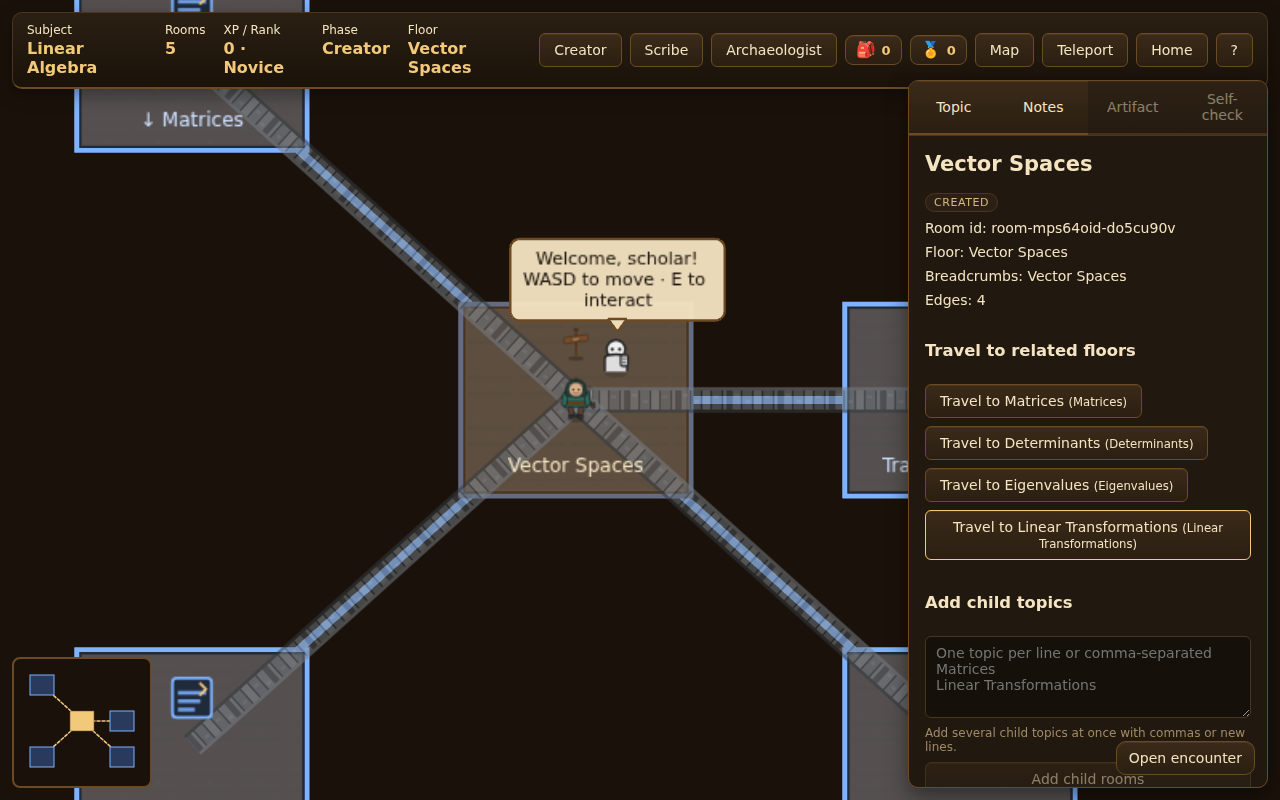
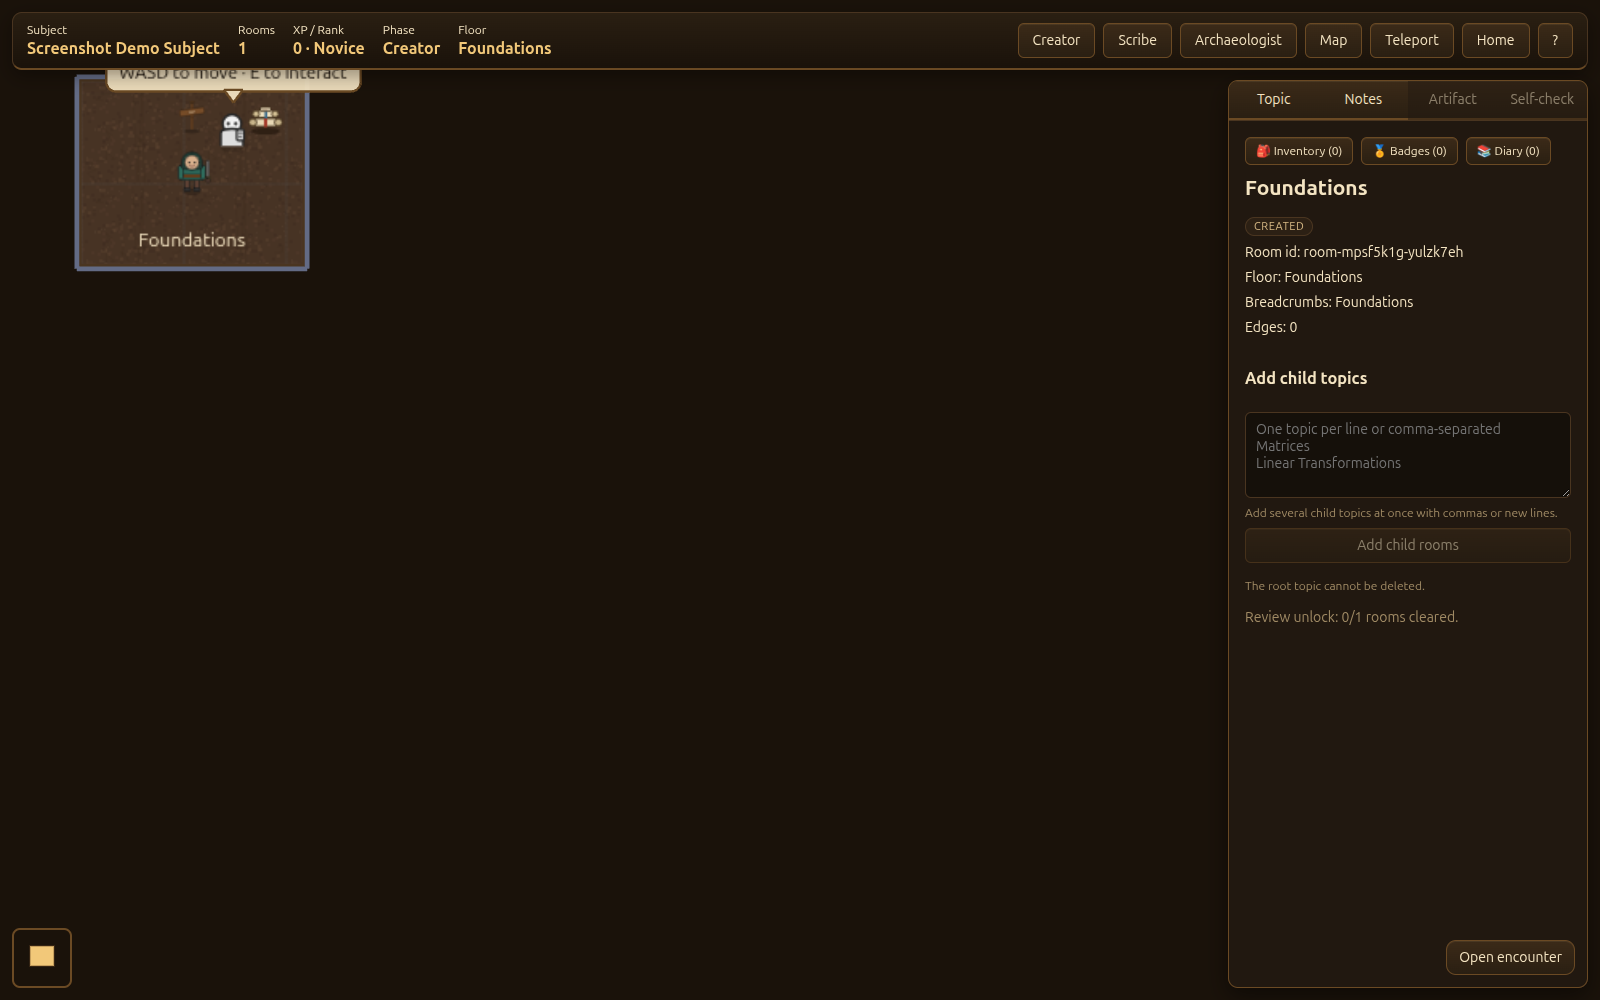
docs: refresh UI screenshots and finalize welcome/journal docs

Changed region(s): [[0.0, 0.0, 1.0, 1.0], [0.7188, 0.75, 0.8438, 0.7812], [0.9688, 0.4688, 1.0, 0.5]]

diff --git a/src/store/progressionStore.ts b/src/store/progressionStore.ts
@@ -52,10 +52,14 @@ function loadPersisted(): PersistedProgression {
     if (typeof localStorage === 'undefined') return DEFAULT_PROGRESSION;
     const raw = localStorage.getItem(STORAGE_KEYS.progression);
     if (!raw) return DEFAULT_PROGRESSION;
-    const parsed = JSON.parse(raw) as PersistedProgression;
-    const collectedNotes = Array.isArray(parsed.collectedNotes)
-      ? parsed.collectedNotes
-          .filter((entry): entry is Partial<CollectedNoteEntry> => Boolean(entry))
+    const parsed = JSON.parse(raw) as unknown;
+    if (typeof parsed !== 'object' || parsed === null) {
+      return DEFAULT_PROGRESSION;
+    }
+    const parsedRecord = parsed as Record<string, unknown>;
+    const collectedNotes = Array.isArray(parsedRecord.collectedNotes)
+      ? parsedRecord.collectedNotes
+          .filter((entry): entry is Record<string, unknown> => typeof entry === 'object' && entry !== null)
           .map((entry) => ({
             noteId: typeof entry.noteId === 'string' ? entry.noteId : '',
             dungeonId: typeof entry.dungeonId === 'string' ? entry.dungeonId : '',
@@ -74,13 +78,17 @@ function loadPersisted(): PersistedProgression {
           .filter((entry) => entry.noteId.length > 0)
       : [];
 
+    const xpTotal = typeof parsedRecord.xpTotal === 'number' ? parsedRecord.xpTotal : 0;
+
     return {
-      xpTotal: typeof parsed.xpTotal === 'number' ? parsed.xpTotal : 0,
-      rank: assignRankTier(parsed.xpTotal ?? 0),
-      badges: Array.isArray(parsed.badges) ? parsed.badges : [],
-      inventory: Array.isArray(parsed.inventory) ? parsed.inventory : [],
+      xpTotal,
+      rank: assignRankTier(xpTotal),
+      badges: Array.isArray(parsedRecord.badges)
+        ? parsedRecord.badges.filter((badge): badge is string => typeof badge === 'string')
+        : [],
+      inventory: Array.isArray(parsedRecord.inventory) ? (parsedRecord.inventory as LootItem[]) : [],
       collectedNotes,
-      streakCount: typeof parsed.streakCount === 'number' ? parsed.streakCount : 0,
+      streakCount: typeof parsedRecord.streakCount === 'number' ? parsedRecord.streakCount : 0,
     };
   } catch {
     return DEFAULT_PROGRESSION;

diff --git a/docs/UI.md b/docs/UI.md
@@ -17,6 +17,13 @@ Use this screen to:
 
 This is the entry point for every session and determines how the rest of the UI behaves.
 
+### 1a) Selection readiness state
+
+![Welcome screen with readiness summary](./assets/ui/welcome-selections-ready.png)
+
+The **Current selections** card echoes the active phase and archetype, and
+shows a readiness line that turns green once an archetype is selected.
+
 ## 2) Main game shell (HUD + minimap + room panel)
 
 ![Main game shell](./assets/ui/game-screen.png)
@@ -43,10 +50,10 @@ gets the maximum amount of screen space:
 - **Minimap (bottom-left, floating):** quick room-location awareness. The
   current room and any rooms **directly connected** to it are highlighted
   in the accent color (see [§5 Minimap child highlighting](#5-minimap-child-highlighting)).
-- **Right room panel (floating):** topic metadata, breadcrumbs, and travel
-  plus a quick-access **Collections** row for **Inventory**, **Badges**, and
-  **Diary** so progression actions stay reachable without crowding the HUD.
-  The room panel also includes topic metadata, breadcrumbs, and travel
+- **Right room panel (floating):** a quick-access **Collections** row for
+  **Inventory**, **Badges**, and **Diary** keeps progression actions visible
+  without crowding the HUD. The panel also includes topic metadata,
+  breadcrumbs, and travel
   shortcuts split into two sections — **Connected topics on this floor**
   (siblings/neighbors on the same floor) and **Travel to related floors**
   (a `← Back to <parent>` shortcut plus jumps to topics that live on other
@@ -58,6 +65,8 @@ gets the maximum amount of screen space:
 
 See [`CUSTOMIZATION.md`](./CUSTOMIZATION.md) for how to swap in your own
 sprites and tilesets, and for where desktop subject exports are written from.
+
+![Room panel collections shortcuts](./assets/ui/room-panel-collections.png)
 
 ## 3) Auto-zoom (room ↔ corridor)
 